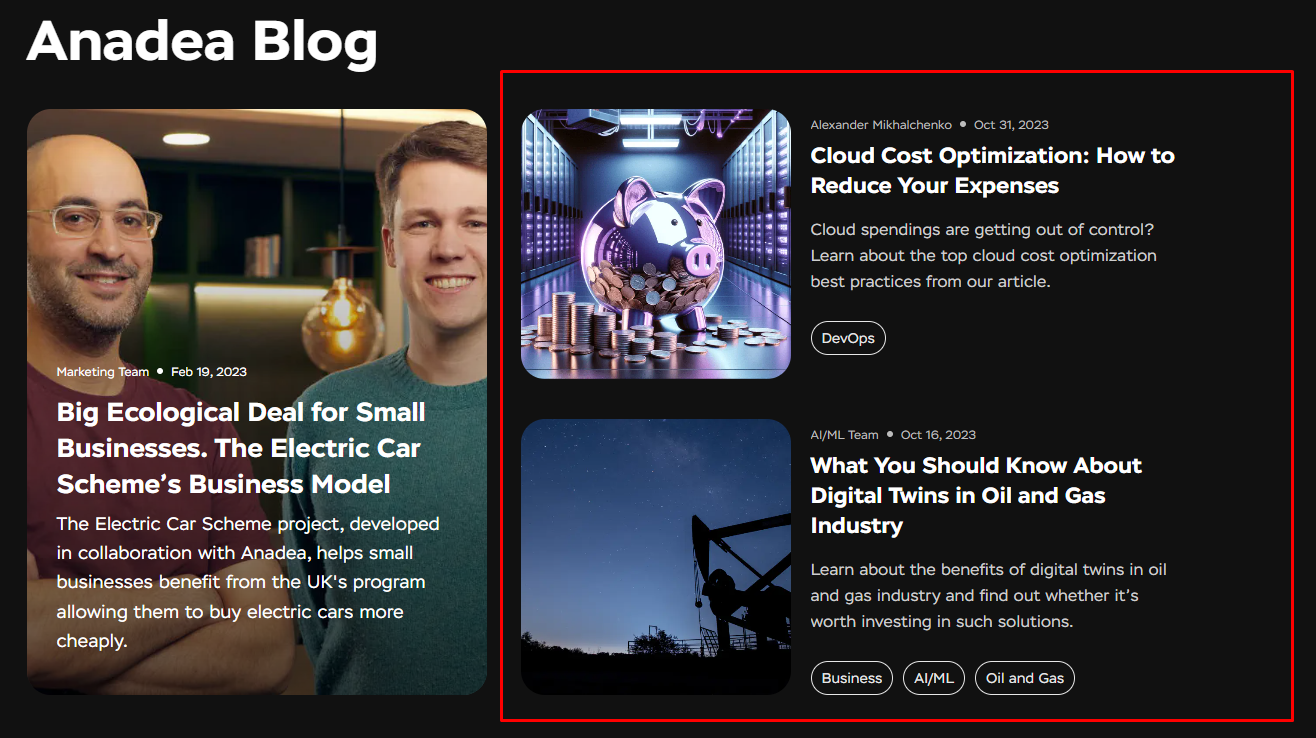
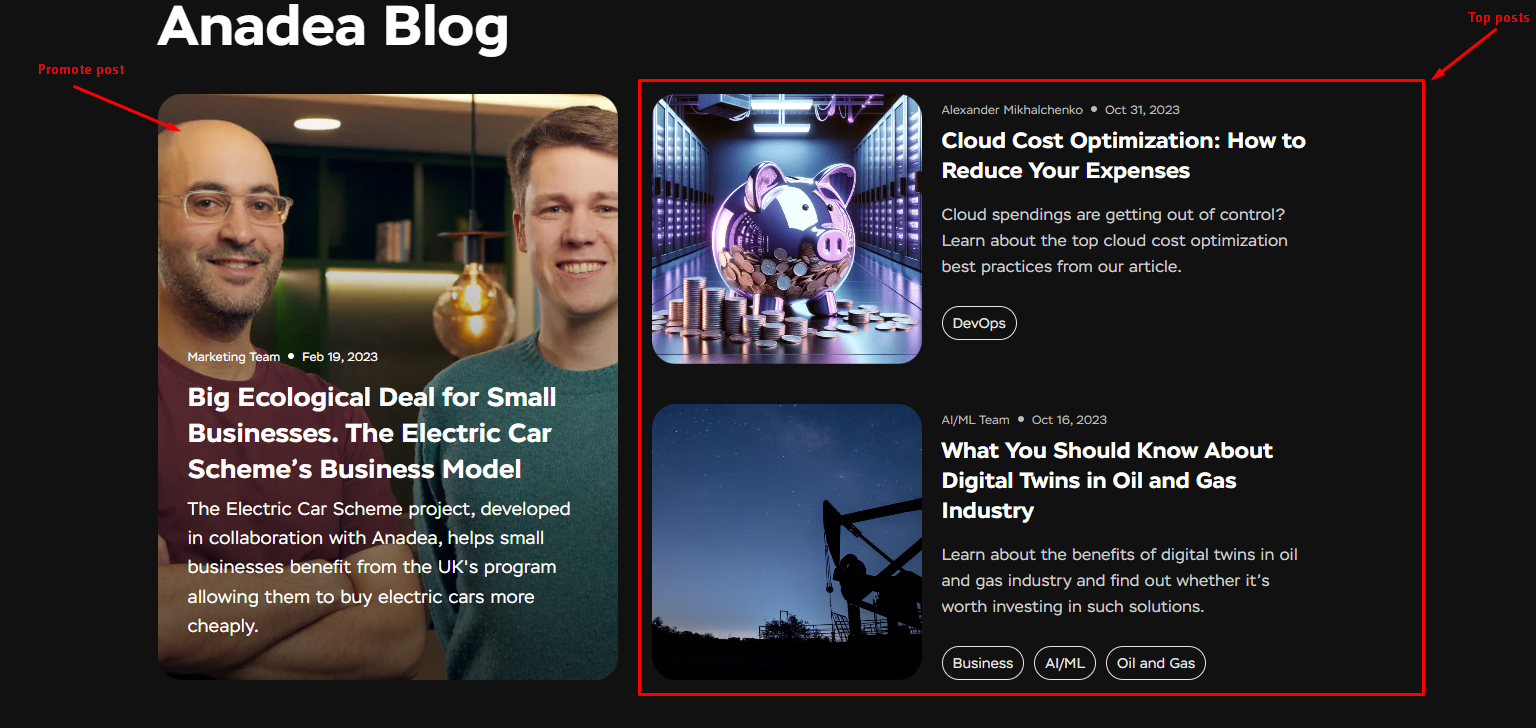
add more information

diff --git a/admin-flow/README.md b/admin-flow/README.md
@@ -42,12 +42,15 @@ build:
   - **Image**: Post image on page.
   - **OG Image**:  Image in message for sharing.
   - **Description**: Short description for the post card.
+
   ![](./img/create2.png)
-  - **Promote post**: Mark as a post from a third-party resource.
+  - **Promote post**: Add a post to the list of posts from a third-party resource.
   - **Top**: Add the post to the list of top posts displayed on the home page.
   ![](./img/create3.png)
   - **Authors, categories, industries**: Data from other collections.
   - **Body**: Main blog content. You can switch between two text formats: rich text and markdown.
+    - ToC is built on the basis of H2 tags in the post markdown.
+    ![](./img/toc.png)
   - **Questionary**: Adds a block with a questionary to the page.
   ![](./img/create4.png)
 - We have the ability to add custom shortcodes to the body of the post.
@@ -61,14 +64,29 @@ build:
 - After publication, the post will appear on the site after 30-60 seconds.
 
 - In addition to posts, we can also create: authors, sales, categories, industries.
-  - Collection of sales is needed to assign them an industry.
+  - You can add sales to the industry
     ![](./img/sales1.png)
   - This is necessary to display the correct sales with a specific industry in the “keep in touch” block.
     ![](./img/sales2.png)
+  
+- You can create an author as a team.
+  ![](./img/team.png)
 
-- **Important!** If you change the title of an already existing element, its slug will not change.
+- The "Read next" block displays the next post by creation date.
+  ![](./img/readNext.png)
+
+- In the "Keep reading" block, posts are displayed with the same taxonomy
+  ![](./img/keepReading.png)
+
+- **Important!** If you change the title of existing authors, categories, industries, sales, its slug will not change.
 - **Сolor marking**:
   ![](./img/create8.png)
+
+## Site settings
+- On the "Hugo Params" tab we can manage site indexing
+  ![](./img/settings1.png)
+  ![](./img/settings2.png)
+
 ## Search
 - It is possible to search on collections.
 - On the main page, click on the search field and select a collection.
@@ -78,12 +96,13 @@ build:
   ![](./img/search2.png)
 
 ## Workflow
-- On the Workflow tab, you can track the status of created posts.
+- On the Workflow tab, you can track the status of created posts. In total we have 3 statuses: In progress, In review, Ready
   ![](./img/workflow1.png)
 - It is possible to control the process of publishing posts.
 - You can move post cards by changing their status.
   ![](./img/workflow2.png)
-
+- Posts that are in read status can be published.
+  ![](./img/workflow3.png)
 ## Media
 - The Media tab allows you to download images for later use.
   ![](./img/media1.png)
